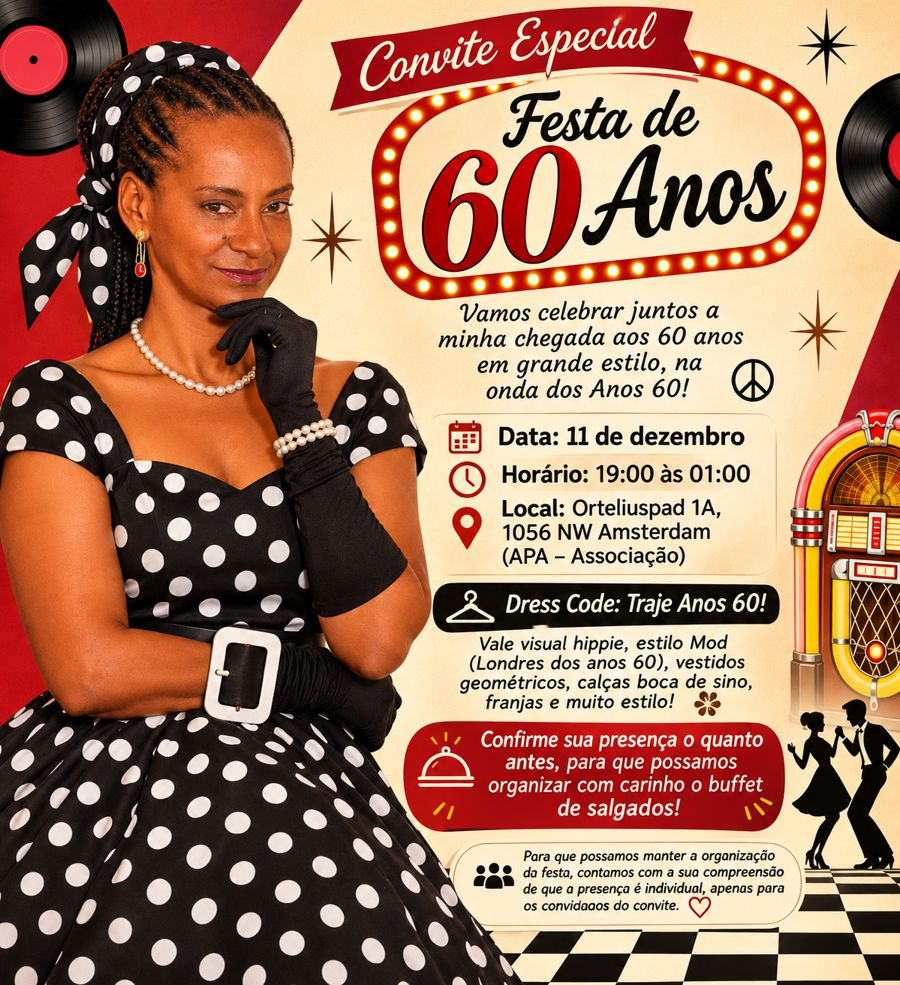
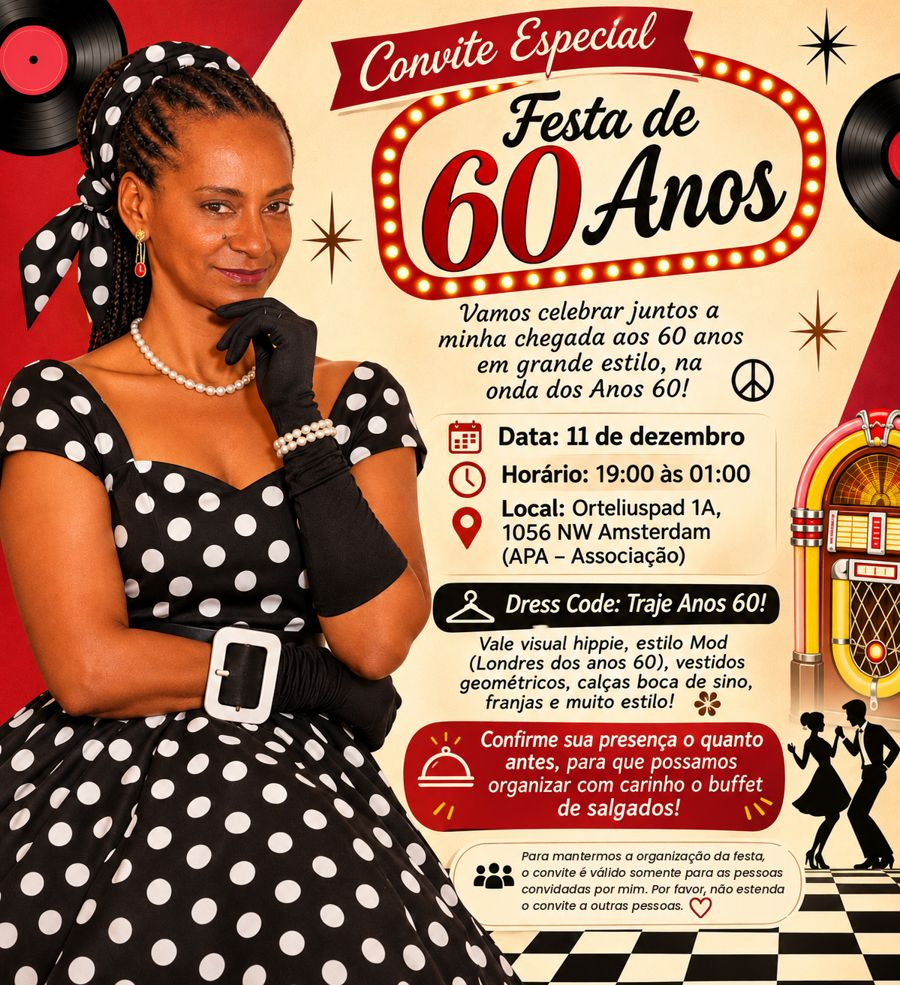
Add files via upload

Changed region(s): [[0.56, 0.8528, 0.8711, 0.9442]]

diff --git a/index.html b/index.html
@@ -59,6 +59,8 @@
   }
   .extras a.sec{background:var(--ink)}
   .rodape{text-align:center; font-size:15px; margin-top:24px; color:#6b5a4a}
+  .para{background:#fff; border:3px solid var(--red); border-radius:16px; padding:16px 18px; margin-bottom:22px; font-size:20px; text-align:center}
+  .para b{color:var(--red-dark)}
 </style>
 </head>
 <body>
@@ -66,8 +68,10 @@
   <div class="convite"><img src="convite.jpg" alt="Convite da Festa de 60 Anos, 11 de dezembro, das 19h à 01h, na APA – Associação, Orteliuspad 1A, Amsterdam. Dress code: anos 60."></div>
 
   <div class="body">
-    <h1>Você vem? 🎉</h1>
-    <p class="sub">Confirme sua presença em <b>2 passos</b>:<br>escreva seu nome e toque no botão verde.</p>
+    <h1 id="titulo">Você vem? 🎉</h1>
+    <p class="sub" id="sub">Confirme sua presença em <b>2 passos</b>:<br>escreva seu nome e toque no botão verde.</p>
+
+    <div class="para" id="paraBox" hidden>💌 <span id="paraTexto"></span></div>
 
     <div class="info">
       <p>📅 <b>Sexta, 11 de dezembro</b></p>
@@ -76,12 +80,13 @@
       <p>👗 <b>Dress code:</b> Anos 60!</p>
     </div>
 
-    <label for="nome">1. Seu nome</label>
-    <input id="nome" type="text" autocomplete="name" placeholder="Ex.: Maria Silva">
+    <div id="blocoNome">
+      <label for="nome">1. Seu nome</label>
+      <input id="nome" type="text" autocomplete="name" placeholder="Ex.: Maria Silva">
+    </div>
     <div class="erro" id="erro" role="alert"></div>
 
-    <button class="btn sim" onclick="enviar(true)">✅ 2. Sim, eu vou!</button>
-    <button class="btn nao" onclick="enviar(false)">Infelizmente não poderei ir</button>
+    <div id="botoes"></div>
 
     <p class="dica">Ao tocar, o <b>WhatsApp</b> abre com a mensagem pronta.<br>É só apertar <b>Enviar</b> ➤</p>
 
@@ -90,7 +95,7 @@
       <a class="sec" href="#" onclick="agenda();return false;">🗓 Salvar na agenda</a>
     </div>
 
-    <p class="rodape">A presença é individual, apenas para os convidados do convite. 💛</p>
+    <p class="rodape" id="rodape">Este convite é válido somente para quem o recebeu.<br>Por favor, não estenda o convite a outras pessoas. 💛</p>
   </div>
 </main>
 
@@ -103,9 +108,43 @@
   const PLANILHA_URL = "https://script.google.com/macros/s/AKfycbwPmVUlMapM9O8JHj9doGXyxsikwy3vmFHdsH9cRnJ28nIw9MHtayxVVh9kEr9mrsKN/exec";
   // ========================
 
-  function gravarNaPlanilha(nome, vai){
+  // Convite personalizado: ?n=Nome&a=Acompanhante
+  const q = new URLSearchParams(location.search);
+  const CONVIDADO = (q.get('n') || '').trim().slice(0, 60);
+  const ACOMP = (q.get('a') || '').trim().slice(0, 60);
+
+  function el(tag, attrs, texto){ const e = document.createElement(tag); Object.assign(e, attrs || {}); if(texto) e.textContent = texto; return e; }
+
+  function montar(){
+    const botoes = document.getElementById('botoes');
+    const opcoes = ACOMP
+      ? [['dois', `✅ Sim, vamos nós dois!`, 'sim'], ['so', 'Vou só eu', 'nao'], ['nao', 'Infelizmente não poderemos ir', 'nao']]
+      : [['sim', CONVIDADO ? '✅ Sim, eu vou!' : '✅ 2. Sim, eu vou!', 'sim'], ['nao', 'Infelizmente não poderei ir', 'nao']];
+    opcoes.forEach(([valor, texto, estilo]) => {
+      const b = el('button', {className: 'btn ' + estilo}, texto);
+      b.onclick = () => enviar(valor);
+      botoes.appendChild(b);
+    });
+
+    if(CONVIDADO){
+      document.getElementById('titulo').textContent = `Olá, ${CONVIDADO}! 🎉`;
+      document.getElementById('sub').textContent = 'Para confirmar, é só tocar no botão verde.';
+      document.getElementById('blocoNome').hidden = true;
+      const para = document.getElementById('paraTexto');
+      para.append('Este convite é ');
+      if(ACOMP){
+        para.append('para ', el('b', {}, `você e ${ACOMP}`), ' (2 pessoas).');
+      } else {
+        para.append(el('b', {}, 'individual'), ', só para você.');
+      }
+      document.getElementById('paraBox').hidden = false;
+      document.getElementById('rodape').innerHTML = 'Este convite é válido somente para as pessoas indicadas acima.<br>Por favor, não estenda o convite a outras pessoas. 💛';
+    }
+  }
+
+  function gravarNaPlanilha(nome, acompanhante, resposta){
     if(!PLANILHA_URL.startsWith('https://')) return;
-    const dados = new URLSearchParams({nome: nome, resposta: vai ? 'Vai' : 'Não vai'});
+    const dados = new URLSearchParams({nome, acompanhante, resposta});
     let enviado = false;
     try { enviado = navigator.sendBeacon(PLANILHA_URL, dados); } catch(e){}
     if(!enviado){
@@ -113,8 +152,8 @@
     }
   }
 
-  function enviar(vai){
-    const nome = document.getElementById('nome').value.trim();
+  function enviar(escolha){
+    const nome = CONVIDADO || document.getElementById('nome').value.trim();
     const erro = document.getElementById('erro');
     if(!nome){
       erro.textContent = 'Escreva seu nome aqui em cima 👆';
@@ -122,14 +161,30 @@
       return;
     }
     erro.textContent = '';
-    const msg = vai
-      ? `Oi! Aqui é ${nome}. ✅ Confirmo minha presença na Festa de 60 Anos, dia 11 de dezembro! 🎉`
-      : `Oi! Aqui é ${nome}. Infelizmente não poderei ir à Festa de 60 Anos no dia 11 de dezembro, mas desejo uma festa linda! 💛`;
-    gravarNaPlanilha(nome, vai);
+    const festa = 'na Festa de 60 Anos, dia 11 de dezembro';
+    let msg, resposta;
+    if(escolha === 'sim'){
+      resposta = 'Vai';
+      msg = `Oi! Aqui é ${nome}. ✅ Confirmo minha presença ${festa}! 🎉`;
+    } else if(escolha === 'dois'){
+      resposta = 'Vão os dois';
+      msg = `Oi! Aqui é ${nome}. ✅ Confirmo a minha presença e a de ${ACOMP} ${festa}! 🎉`;
+    } else if(escolha === 'so'){
+      resposta = 'Vai só';
+      msg = `Oi! Aqui é ${nome}. ✅ Confirmo a minha presença ${festa}. ${ACOMP} não vai poder ir. 🎉`;
+    } else {
+      resposta = 'Não vai';
+      msg = ACOMP
+        ? `Oi! Aqui é ${nome}. Infelizmente eu e ${ACOMP} não poderemos ir à Festa de 60 Anos no dia 11 de dezembro, mas desejamos uma festa linda! 💛`
+        : `Oi! Aqui é ${nome}. Infelizmente não poderei ir à Festa de 60 Anos no dia 11 de dezembro, mas desejo uma festa linda! 💛`;
+    }
+    gravarNaPlanilha(nome, ACOMP, resposta);
     setTimeout(() => {
       window.location.href = `https://wa.me/${WHATSAPP}?text=${encodeURIComponent(msg)}`;
     }, 400);
   }
+
+  montar();
 
   function agenda(){
     const ics = [
